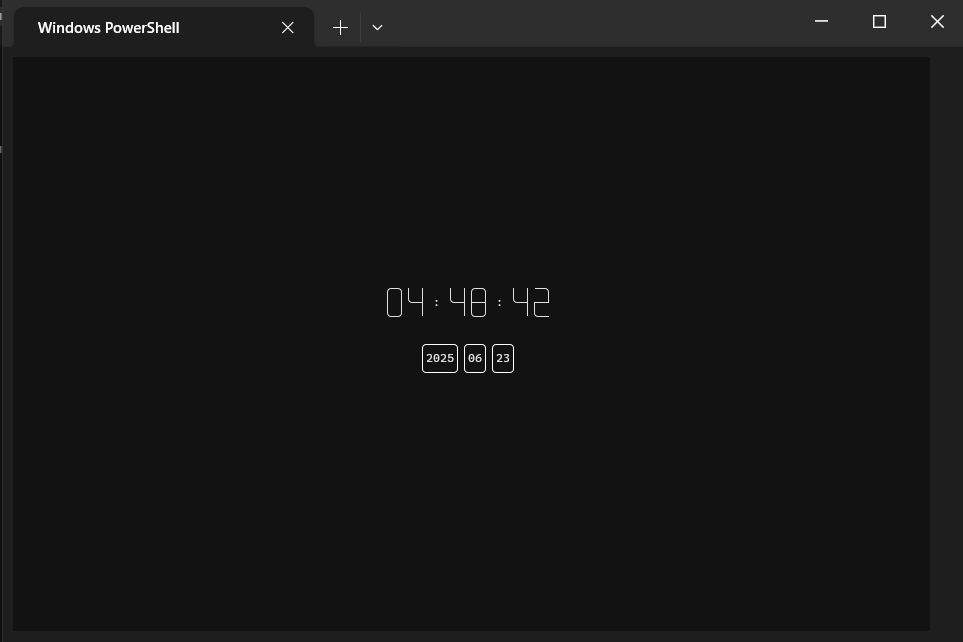
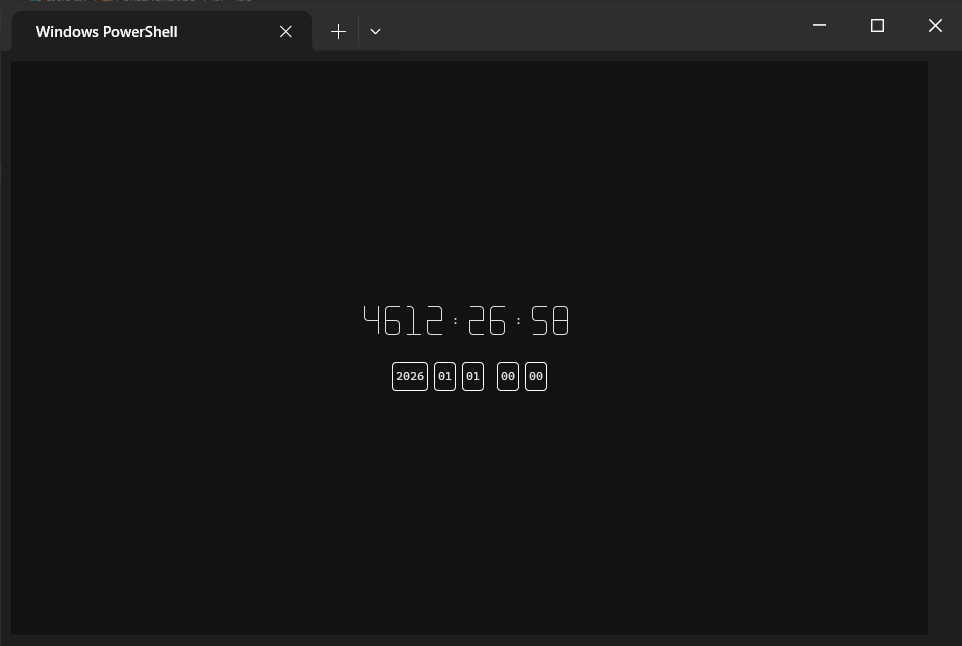
feat: add support for setting hour and minute

diff --git a/main.py b/main.py
@@ -12,14 +12,14 @@ class CountDown(Digits):
 
     DEFAULT_CSS = "CountDown { width: auto; }"
 
-    def __init__(self, year: int, month: int, day: int) -> None:
+    def __init__(self, year: int, month: int, day: int, hour: int, minute: int) -> None:
         super().__init__(self.DEFAULT_VALUE)
 
-        self.date = datetime(year, month, day)
+        self.date = datetime(year, month, day, hour, minute)
 
     def on_mount(self) -> None:
         self.update_value()
-        self.set_interval(1, self.update_value)
+        self.set_interval(1 / 60, self.update_value)
 
     def update_value(self) -> None:
         now = datetime.now()
@@ -35,17 +35,23 @@ class CountDown(Digits):
 
 class DateSelector(HorizontalGroup):
 
-    def __init__(self, year: int, month: int, day: int) -> None:
+    DEFAULT_CSS = ".hour { margin-left: 1; }"
+
+    def __init__(self, year: int, month: int, day: int, hour: int = 0, minute: int = 0) -> None:
         super().__init__()
 
         self.year = year
         self.month = month
         self.day = day
+        self.hour = hour
+        self.minute = minute
 
     def compose(self) -> ComposeResult:
         yield NumberSelector(2000, 2050, self.year)
         yield NumberSelector(1, 12, self.month)
         yield NumberSelector(1, 31, self.day)
+        yield NumberSelector(0, 23, self.hour, classes="hour")
+        yield NumberSelector(0, 59, self.minute)
 
 class NumberSelector(Widget):
 
@@ -57,8 +63,8 @@ class NumberSelector(Widget):
     }
     """
 
-    def __init__(self, min: int, max: int, default: int | None = None) -> None:
-        super().__init__()
+    def __init__(self, min: int, max: int, default: int | None = None, **kwargs) -> None:
+        super().__init__(**kwargs)
 
         self.min = min
         self.max = max
@@ -71,7 +77,7 @@ class NumberSelector(Widget):
 class CountDownApp(App):
 
     TITLE = "Count Down"
-    DEFAULT_DATE = (2026, 1, 1)
+    DEFAULT_DATE = [2026, 1, 1, 0, 0]
     CONFIG_PATH = Path(user_config_dir("countdown")) / "date.csv"
     BINDINGS = [
         ("q", "quit", "Quit")
@@ -83,7 +89,7 @@ class CountDownApp(App):
 
     #countdown {
         align-horizontal: center;
-
+        margin: 1;
     }
 
     DateSelector {
@@ -92,17 +98,24 @@ class CountDownApp(App):
     }
     """
 
-    def __init__(self, date: tuple[int, int, int] | None = None):
+    def __init__(self, date: list[int] | None = None):
         super().__init__()
+
+        date = date or self.DEFAULT_DATE
+        date.extend(self.DEFAULT_DATE[len(date):len(self.DEFAULT_DATE)])
 
         if self.CONFIG_PATH.is_file():
             with open(self.CONFIG_PATH) as f:
                 content = ",".join(f.readlines())
                 values = content.split(",")
-                if len(values) == 3:
-                    date = (int(values[0]), int(values[1]), int(values[2]))
+        
+            for i in range(0, 5):
+                if len(values) > i:
+                    date[i] = int(values[i])
+                else:
+                    break
 
-        self.date = date or self.DEFAULT_DATE 
+        self.date = date
 
     def compose(self) -> ComposeResult:
         yield HorizontalGroup(CountDown(*self.date), id="countdown")
